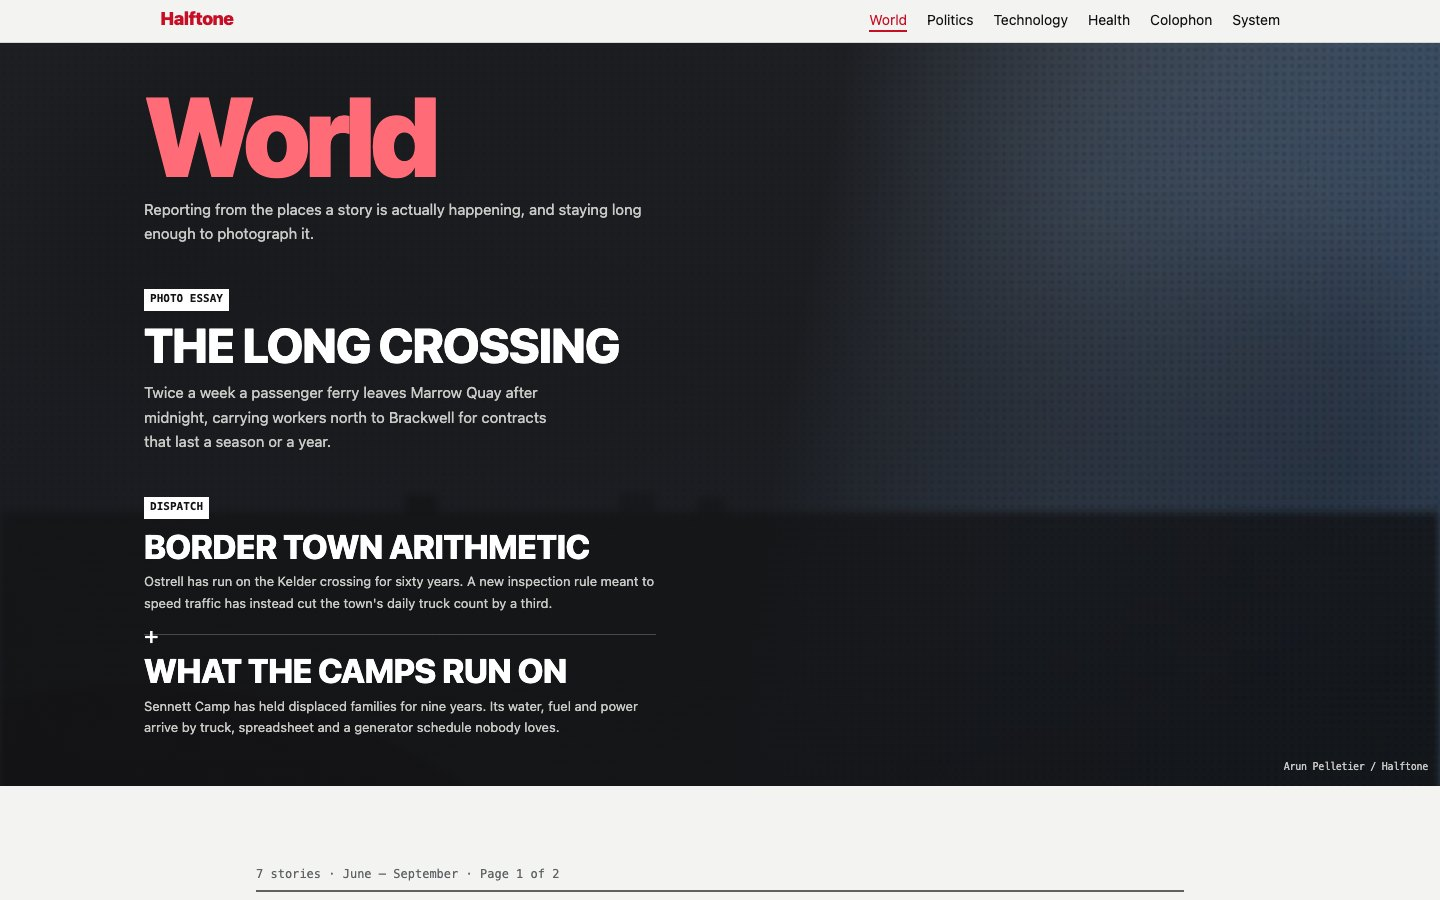
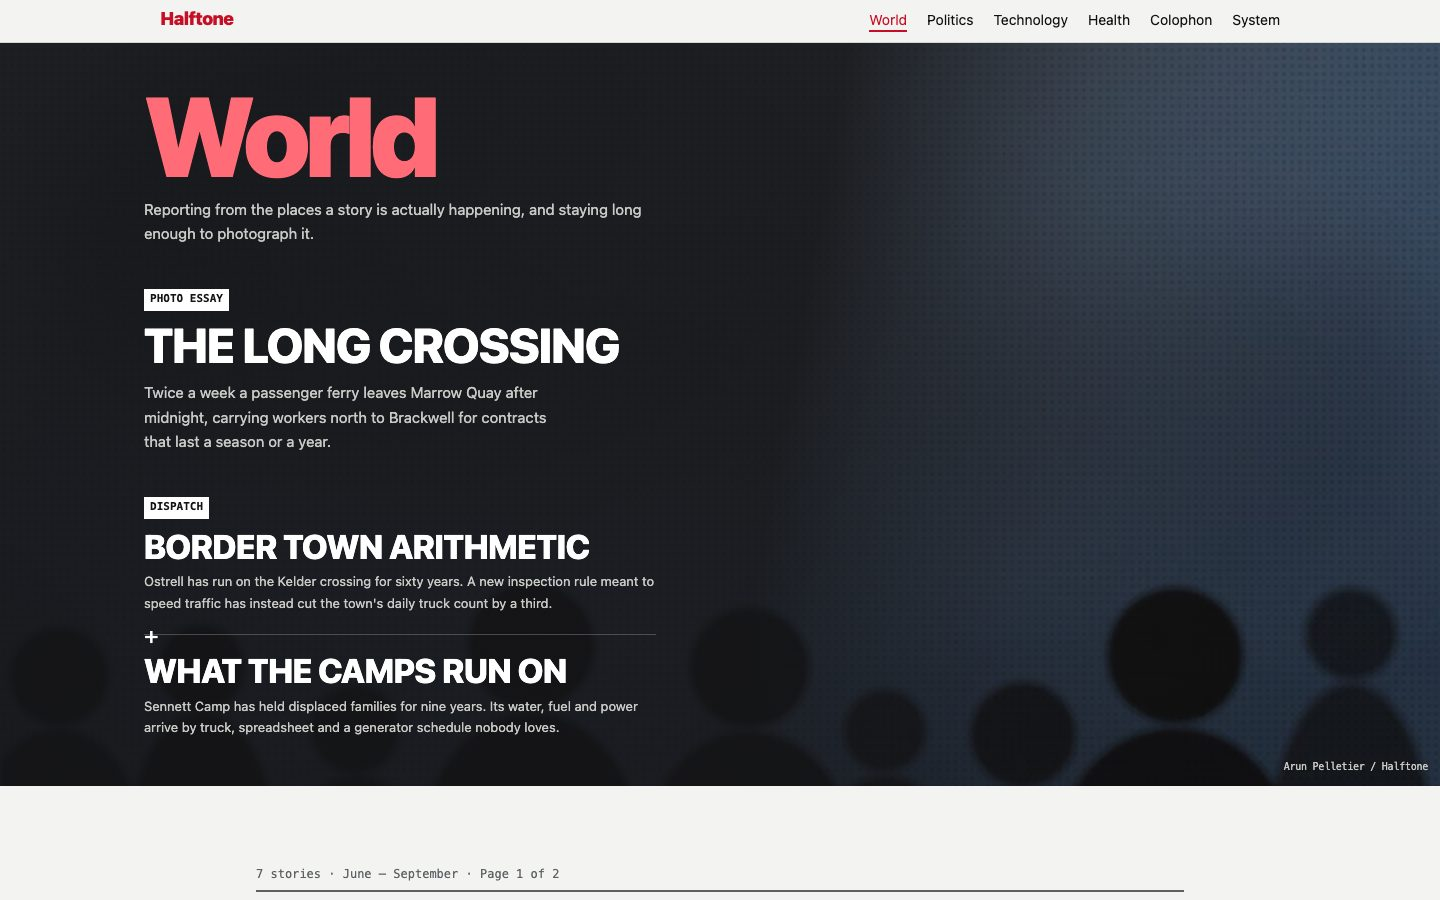
Release v1.0.0

Changed region(s): [[0.625, 0.56, 1.0, 0.8711], [0.7188, 0.84, 0.75, 0.8711]]

diff --git a/README.md b/README.md
@@ -3,7 +3,7 @@
 A photo-led newsmagazine theme for Astro: the picture leads, the type is laid on it, and the
 density lives in the rail beside the piece. Free and MIT-licensed.
 
-[Live demo](https://halftone-free.ondelva.com) · [Pro demo](https://halftone.ondelva.com)
+[Live demo](https://halftone-free.ondelva.com) · [Pro demo](https://halftone.ondelva.com) · [Get Pro](https://buy.polar.sh/polar_cl_3X186IpxV4IC54Eh871nUsDz0RUkPeSj49y0r01UDcx)
 
 ![Halftone: the home cover plate and its cover lines](docs/screenshots/home-light.jpg)
 
@@ -77,7 +77,9 @@ it. Keeping it is how the next person finds the theme. Halftone Pro ships withou
 ## Free vs Pro
 
 Halftone Pro is the same magazine with the second axis through it — the ways across, the reading
-apparatus and the integrations. See it running at [halftone.ondelva.com](https://halftone.ondelva.com).
+apparatus and the integrations. See it running at [halftone.ondelva.com](https://halftone.ondelva.com),
+and [buy it here](https://buy.polar.sh/polar_cl_3X186IpxV4IC54Eh871nUsDz0RUkPeSj49y0r01UDcx) — $49 for one person,
+$129 for a team of up to ten.
 
 |                | Free (this repo)                                | Pro                                                           |
 | -------------- | ----------------------------------------------- | ------------------------------------------------------------- |

diff --git a/CHANGELOG.md b/CHANGELOG.md
@@ -2,6 +2,22 @@
 
 All notable changes to this project are documented here. Format: [Keep a Changelog](https://keepachangelog.com/en/1.1.0/).
 
+## [1.0.0] - 2026-09-22
+
+First release. The demo is live, and the Pro edition is on sale.
+
+### Added
+
+- The README links to the Pro edition's checkout, with its two prices.
+
+### Changed
+
+- The lead piece on the home cover carries a different sample photograph. The cover plate holds
+  its scrim over the left of the frame, so only the band to the right of the type reads as a
+  picture — and the old plate had an empty horizon there, which left the cover looking like a
+  dark field rather than a photograph.
+- The screenshots in `docs/screenshots/` were taken again against this build.
+
 ## [0.9.0] - 2026-09-22
 
 First snapshot of the free edition, cut from Halftone Pro. The live demo and the screenshots
